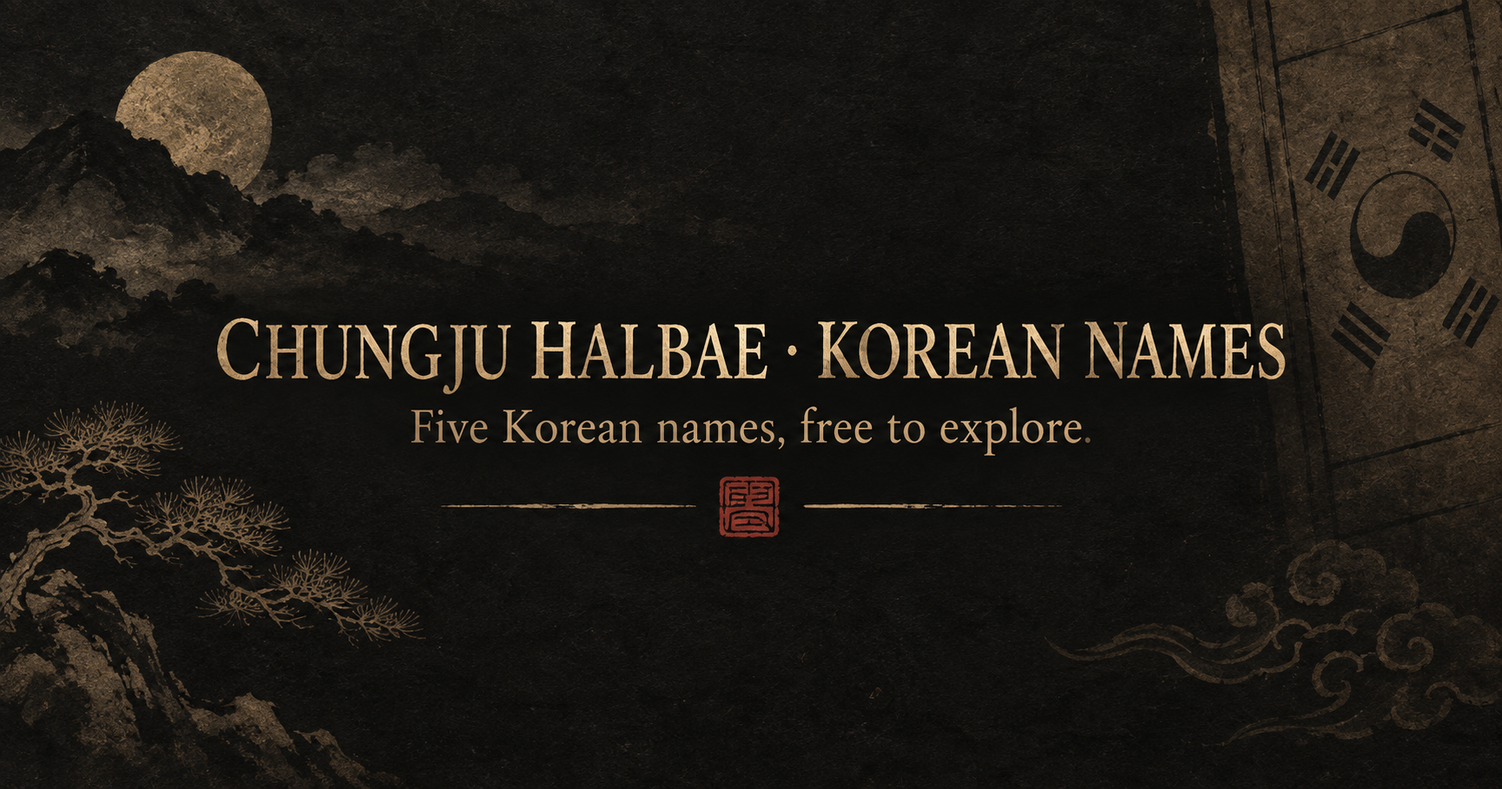
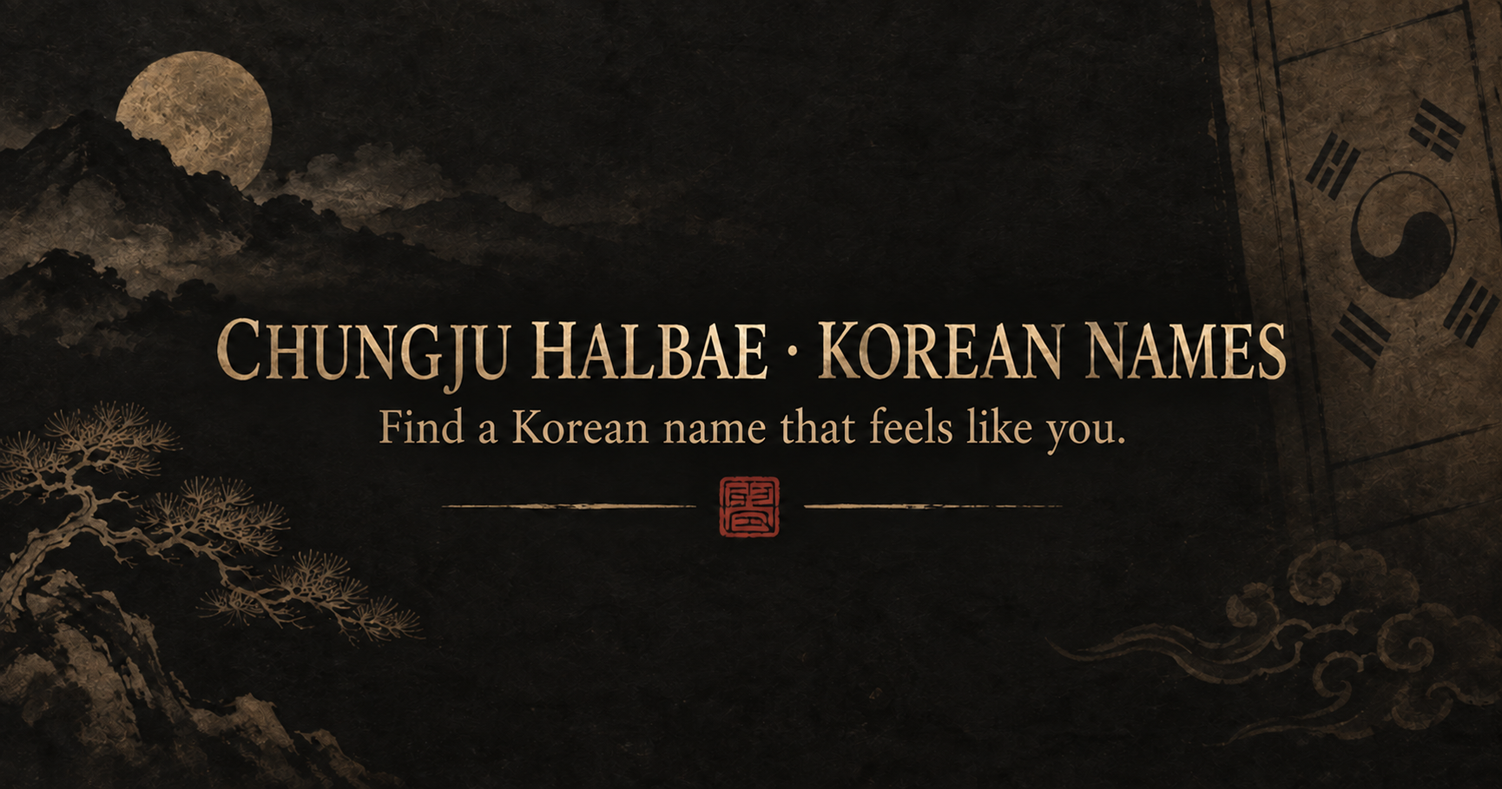
Hide example names until personalized results

diff --git a/app/page.tsx b/app/page.tsx
@@ -7,13 +7,6 @@ import { Input } from '@/components/ui/input';
 import { Textarea } from '@/components/ui/textarea';
 import type { NameFeel, NameResult, NameStyle } from '@/lib/names';
 
-const examples = [
-  ['지안', 'Jian', 'Warm, balanced'],
-  ['서윤', 'Seoyun', 'Gentle, refined'],
-  ['도윤', 'Doyun', 'Calm, assured'],
-  ['하준', 'Hajun', 'Clear, confident'],
-  ['은서', 'Eunseo', 'Warm, gentle'],
-];
 const styles: NameStyle[] = ['any', 'gentle', 'bright', 'distinctive', 'classic', 'modern'];
 const meaningSuggestions = ['Peace', 'Wisdom', 'Kindness', 'Hope', 'Nature', 'Light', 'Strength', 'Creativity'];
 const nameFeelOptions: { value: NameFeel; label: string }[] = [
@@ -84,13 +77,21 @@ export default function Home() {
       setFeedbackRating(0); setFeedbackComment(''); setFeedbackMessage('');
       try { localStorage.setItem(`chungju-halbae-delete:${next.id}`, body.deleteToken); } catch { /* deletion remains available in this tab */ }
       history.replaceState(null, '', '#result=' + next.id + '.' + body.token);
-      setTimeout(() => { document.getElementById('how-it-works')?.scrollIntoView({ behavior: 'smooth' }); document.getElementById('results-heading')?.focus({ preventScroll: true }); }, 80);
       return next;
     } catch (caught) {
       setError(caught instanceof SyntaxError ? 'Something went wrong. Please try again.' : caught instanceof Error ? caught.message : 'Please try again.');
       throw caught;
     } finally { setBusy(false); }
   }, []);
+
+  useEffect(() => {
+    if (!result) return;
+    const frame = requestAnimationFrame(() => {
+      document.getElementById('how-it-works')?.scrollIntoView({ behavior: 'smooth' });
+      document.getElementById('results-heading')?.focus({ preventScroll: true });
+    });
+    return () => cancelAnimationFrame(frame);
+  }, [result]);
 
   useEffect(() => {
     const match = location.hash.match(/^#result=([a-f0-9-]+)\.([a-f0-9-]+)(?:&selected=([^&]+))?$/);
@@ -121,8 +122,8 @@ export default function Home() {
     const lifecycle = new AbortController();
     void Promise.resolve(context.registerTool({
       name: 'generate_korean_names',
-      title: 'Find five Korean names',
-      description: 'Generate five free Korean given names from an approximate name-sound match, personal meaning, preferred mood and a limited birth-date reading for checked Hanja.',
+      title: 'Find Korean names',
+      description: 'Explore Korean given names using an approximate name-sound match, personal meaning, preferred mood and a limited birth-date reading for checked Hanja.',
       inputSchema: {
         type: 'object', properties: {
           name: { type: 'string', minLength: 1 },
@@ -206,7 +207,7 @@ export default function Home() {
         <div className="portrait-wrap"><img src="/halbae.jpg" alt="Portrait of Chungju Halbae in traditional clothing"/></div>
         <h1>Come closer.<br/><em>Let&apos;s find your Korean name.</em></h1>
         <p className="subtitle">“Tell me your name, date of birth, and the meaning you hope to carry. I&apos;ll look for a Korean name that feels like you.”</p>
-        <div className="promises"><span><Check size={15}/> Five names free</span><span><Check size={15}/> No sign-up</span><span><Check size={15}/> No credit card</span></div>
+        <div className="promises"><span><Check size={15}/> Free name reading</span><span><Check size={15}/> No sign-up</span><span><Check size={15}/> No credit card</span></div>
         <a className="hero-cta" href="#find-your-name">Begin your name reading <ArrowRight size={17}/></a>
       </div>
       <div className="form-frame" id="find-your-name">
@@ -248,14 +249,14 @@ export default function Home() {
           <div className="style-chips feel-chips" role="group" aria-label="Name impression">{nameFeelOptions.map(option => <Button key={option.value} type="button" variant="outline" className={nameFeel === option.value ? 'active' : ''} aria-pressed={nameFeel === option.value} onClick={() => setNameFeel(option.value)}>{option.label}</Button>)}</div>
           <p className="field-help">This describes a name&apos;s common impression, not your gender. Anyone may use a name they like.</p>
           {error && <p className="form-error" role="alert">{error}</p>}
-          <Button type="submit" className="submit-button" disabled={busy}>{busy ? 'Halbae is looking…' : 'Show me five names'} <ArrowRight size={18}/></Button>
+          <Button type="submit" className="submit-button" disabled={busy}>{busy ? 'Halbae is looking…' : 'Find my Korean name'} <ArrowRight size={18}/></Button>
         </form>
         <p className="privacy-line">Your name, pronunciation hint, meaning note, and chart summary are saved with a private result link for seven days. Your exact birth date and time are not saved. Anyone with the link can open it. <a href="/beta-privacy">Beta privacy details</a></p>
       </div>
     </section>
     <p className="preview-truth"><strong>How this reading works</strong> We compare the sound of your name and the style you want with more than 2,000 two-syllable Korean name options. For names with checked Hanja, your meaning and birth chart may also affect the order. This is a limited traditional reading.</p>
-    <section className="preview-section" id="how-it-works">
-      <div className="section-heading"><div><p className="eyebrow">{result ? '02 · YOUR FREE NAMES' : '02 · A FIRST LOOK'}</p><h2 id="results-heading" tabIndex={-1}>{result ? 'Names for ' + result.originalName : 'A glimpse of your names'}</h2><p>{result ? `${nameFeelSummary[result.nameFeel || 'any']}. Choose the one that feels most like you. Your private result link works for seven days.` : 'These are examples. Tell Halbae your name to see your own five.'}</p></div><span className="step-badge">FIVE FREE</span></div>
+    {result && <section className="preview-section" id="how-it-works">
+      <div className="section-heading"><div><p className="eyebrow">02 · YOUR NAME READING</p><h2 id="results-heading" tabIndex={-1}>{'Names for ' + result.originalName}</h2><p>{`${nameFeelSummary[result.nameFeel || 'any']}. Choose the one that feels most like you. Your private result link works for seven days.`}</p></div></div>
       {result?.saju && <div className="saju-reading">
         <p className="eyebrow">YOUR BIRTH-DATE READING</p>
         <h3>Day stem: <span lang="ko">{result.saju.day.stem}</span> · {result.saju.dayElementEnglish}</h3>
@@ -269,8 +270,7 @@ export default function Home() {
         {result.saju.boundaryUncertain && <p className="boundary-note">A seasonal boundary may occur on this date. Add your local birth time and birthplace time zone to resolve the year or month pillar.</p>}
         <p className="method-note">We use the birth-chart information we can calculate reliably. Names with checked Hanja may reflect it through a symbolic character image. We don&apos;t determine your most favorable element or predict your fortune.</p>
       </div>}
-      <div className="name-grid">{result
-        ? result.candidates.map((candidate, i) => <article className={'name-card' + (selected === candidate.hangul ? ' selected-card' : '')} key={candidate.hangul}>
+      <div className="name-grid">{result.candidates.map((candidate, i) => <article className={'name-card' + (selected === candidate.hangul ? ' selected-card' : '')} key={candidate.hangul}>
             <div className="card-meta"><span>NAME {String(i+1).padStart(2,'0')}</span>{i===0 && <span className="pick">START HERE</span>}</div>
             <div className="hangul" lang="ko">{candidate.hangul}</div><div className="roman"><small>Split spelling</small> {candidate.syllables} <small>Joined spelling</small> {candidate.romanization}</div>
             {candidate.presentation && <div className="presentation-label">{candidate.presentation[0].toUpperCase() + candidate.presentation.slice(1)} impression (approximate)</div>}
@@ -286,9 +286,8 @@ export default function Home() {
             {candidate.hanja && <div className="basic-meaning"><span>ONE POSSIBLE HANJA SPELLING</span><b lang="ko">{candidate.hanja.pair}</b><small>{candidate.hanja.characters.map(character => character.character + ' ' + character.gloss).join(' · ')}</small></div>}
             {!candidate.hanja && <div className="basic-meaning"><span>HANJA SPELLING</span><small>No characters have been checked for this name yet. Its Hangul spelling does not have one fixed character meaning.</small></div>}
             <Button type="button" variant={selected === candidate.hangul ? 'default' : 'outline'} className="choose-button" onClick={() => chooseName(candidate.hangul)}>{selected === candidate.hangul ? 'Your choice ✓' : 'Choose this name'}</Button>
-          </article>)
-        : examples.map(([hangul, roman, mood], i) => <article className="name-card" key={hangul}><div className="card-meta"><span>EXAMPLE {String(i+1).padStart(2,'0')}</span>{i===0 && <span className="pick">START HERE</span>}</div><div className="hangul" lang="ko">{hangul}</div><div className="roman">{roman}</div><div className="card-line"/><strong>{mood}</strong><p>An example of a two-syllable Korean given name.</p></article>)}</div>
-      <p className="disclaimer">{result ? 'Hanja are characters sometimes used to write Korean given names. We checked individual character readings against the Korean Supreme Court lookup, but not the full name’s registration eligibility or its element interpretation. English meanings are editorial translations. Audio uses your browser’s Korean voice.' : 'Example names shown. Generate yours to see the birth chart, five name options, and any checked Hanja spellings.'}</p>
+          </article>)}</div>
+      <p className="disclaimer">Hanja are characters sometimes used to write Korean given names. We checked individual character readings against the Korean Supreme Court lookup, but not the full name’s registration eligibility or its element interpretation. English meanings are editorial translations. Audio uses your browser’s Korean voice.</p>
       {result && <div className="surname-panel">
         <div><p className="eyebrow">OPTIONAL FULL-NAME PREVIEW</p><h3>What about a family name?</h3><p>Korean names usually put the family name first. Your own surname remains yours; a Korean-style surname here is only a nickname example.</p></div>
         <div className="surname-options" role="group" aria-label="Family name preview">
@@ -300,19 +299,19 @@ export default function Home() {
         {surnameMode === 'korean' && <div className="surname-detail"><p>Choose one to see how the full name looks:</p><div className="surname-picks">{koreanSurnames.map(surname => <Button type="button" key={surname.hangul} variant={koreanSurname.hangul === surname.hangul ? 'default' : 'outline'} onClick={() => setKoreanSurname(surname)}>{surname.hangul} <small>{surname.romanization}</small></Button>)}</div><strong className="full-name-preview" lang="ko">{koreanSurname.hangul}{selected}</strong><span className="full-name-roman">{koreanSurname.romanization} {result.candidates.find(candidate => candidate.hangul === selected)?.romanization}</span><p>This is a cultural nickname preview. It does not imply family ancestry or change your legal name.</p></div>}
       </div>}
       {result && <div className="feedback-panel" id="beta-feedback"><p className="eyebrow">HELP HALBAE IMPROVE</p><h3>Did these names feel right?</h3><p>We store feedback separately from your original name and birth chart. Please leave out personal details.</p><div className="rating-buttons" role="group" aria-label="Rate these names from one to five">{[1,2,3,4,5].map(value => <Button type="button" key={value} variant={feedbackRating === value ? 'default' : 'outline'} aria-pressed={feedbackRating === value} aria-label={`${value} out of 5`} onClick={() => setFeedbackRating(value)}>{value}</Button>)}</div><label htmlFor="feedback-comment">What worked or felt off? <small>Optional</small></label><Textarea id="feedback-comment" className="form-input meaning-input" maxLength={500} value={feedbackComment} onChange={event => setFeedbackComment(event.target.value)} placeholder="For example: a name felt too formal, or its meaning fit perfectly"/><Button type="button" className="feedback-submit" disabled={feedbackBusy} onClick={() => void sendFeedback()}>{feedbackBusy ? 'Sending…' : 'Send feedback'}</Button>{feedbackMessage && <p role="status" className="feedback-message">{feedbackMessage}</p>}</div>}
-      {notice && <p className="notice" role="status">{notice}</p>}
       {result && <div className="result-footer"><span>Bookmark or copy your private link to revisit these names within seven days. Anyone with the link can view them.</span><div className="result-actions"><Button type="button" variant="outline" onClick={() => void copyResultLink()}><Copy size={15}/> Copy result link</Button><Button type="button" variant="outline" onClick={() => { setResult(null); setSelected(''); setDeleteToken(''); history.replaceState(null, '', location.pathname); document.getElementById('find-your-name')?.scrollIntoView({ behavior: 'smooth' }); }}><RotateCcw size={15}/> Try another name</Button>{deleteToken && <Button type="button" variant="outline" className="delete-result" onClick={() => void deleteMyResult()}>Delete my result</Button>}</div></div>}
-    </section>
+    </section>}
+    {notice && <p className="notice result-notice" role="status">{notice}</p>}
     <section className="method-section" id="about">
-      <p className="eyebrow">03 · HOW HALBAE CHOOSES</p>
+      <p className="eyebrow">HOW HALBAE CHOOSES</p>
       <h2>What goes into a name?</h2>
       <div className="method-row"><span>一</span><p><strong>Your name and preferences.</strong> We compare your pronunciation hint, when provided, with Korean name spellings. Your chosen style and name impression guide the shortlist. Sound matching is approximate.</p></div>
       <div className="method-row"><span>二</span><p><strong>Your meaning or story.</strong> We look for themes in your English note. If a name has a checked Hanja character with a related meaning, we show that link. Notes we cannot connect do not change the order.</p></div>
       <div className="method-row"><span>三</span><p><strong>Your birth chart.</strong> Your date gives a partial traditional reading. If you know your birth time and birthplace time zone, we can calculate one more part. For checked Hanja names, a character image may symbolically connect to the chart and affect the order. We do not calculate a definitive best element.</p></div>
-      <div className="method-row"><span>四</span><p><strong>Korean name options.</strong> We screen more than 2,000 two-syllable forms and favor names that appear more often in our source data. The five results have different opening syllables. Only 51 forms currently have a checked possible Hanja spelling.</p></div>
+      <div className="method-row"><span>四</span><p><strong>Korean name options.</strong> We screen more than 2,000 two-syllable forms and favor names that appear more often in our source data. The suggestions have different opening syllables. Only 51 forms currently have a checked possible Hanja spelling.</p></div>
       <div className="saju-future"><strong>ABOUT THIS BETA</strong><p>Most options come from a synthetic Korean persona dataset, with a smaller set informed by published birth-name data. The full list and every interpretation have not been reviewed by a Korean naming expert. Character meanings and birth-chart links are limited, so please tell us when a name feels unnatural.</p><p><a href="https://huggingface.co/datasets/nvidia/Nemotron-Personas-Korea" target="_blank" rel="noopener noreferrer">NVIDIA Nemotron-Personas-Korea</a> · <a href="https://creativecommons.org/licenses/by/4.0/" target="_blank" rel="noopener noreferrer">CC BY 4.0</a> · <a href="https://stfamily.scourt.go.kr/st/StFrrStatcsView.do?pgmId=090000000025" target="_blank" rel="noopener noreferrer">Korean court birth-name table</a>.</p></div>
     </section>
-    <section className="premium-section"><div><p className="eyebrow">LATER, AFTER THE BETA</p><h2>A deeper name story.</h2><p>All five names are free. We are exploring an optional detailed report for names with checked Hanja. You can preview the format now; no payment is available during this beta.</p><a className="sample-link" href="/sample-report">Explore a sample report <ArrowRight size={16}/></a></div><div className="price-box"><small>OPEN BETA</small><strong>Free</strong><span>No payment or subscription</span></div></section>
+    {result && <section className="premium-section"><div><p className="eyebrow">LATER, AFTER THE BETA</p><h2>A deeper name story.</h2><p>Your name suggestions are free. We are exploring an optional detailed report for names with checked Hanja. You can preview the format now; no payment is available during this beta.</p><a className="sample-link" href="/sample-report">Explore a sample report <ArrowRight size={16}/></a></div><div className="price-box"><small>OPEN BETA</small><strong>Free</strong><span>No payment or subscription</span></div></section>}
     <footer><a href="https://gwimunsaju.com/" target="_blank" rel="noopener noreferrer" lang="ko">충주 할배 · 귀문사주</a><span>For cultural exploration. Name suggestions are not legal name changes or promises about the future.</span><div className="footer-links"><a href="/beta-privacy">Beta privacy</a><a href="mailto:shj2331@chansworld.co.kr?subject=Korean%20name%20beta">Contact</a></div><small>© 2026 Chungju Halbae Names</small></footer>
   </main>;
 }

diff --git a/app/sample-report/page.tsx b/app/sample-report/page.tsx
@@ -7,16 +7,16 @@ import { PrintButton } from './print-button';
 
 export const metadata: Metadata = {
   title: 'Sample Korean Name Report | Chungju Halbae Names',
-  description: 'Preview the planned Korean name report, with checked Hanja characters and a five-name comparison.',
+  description: 'Preview the planned Korean name report, with checked Hanja characters and a name comparison.',
   openGraph: {
     title: 'Sample Korean Name Report',
-    description: 'A sample five-name comparison and checked Hanja character explanation.',
+    description: 'A sample name comparison and checked Hanja character explanation.',
     images: [],
   },
   twitter: {
     card: 'summary',
     title: 'Sample Korean Name Report',
-    description: 'A sample five-name comparison and checked Hanja character explanation.',
+    description: 'A sample name comparison and checked Hanja character explanation.',
     images: [],
   },
 };
@@ -48,7 +48,7 @@ export default function SampleReport() {
       <div className="report-head"><p className="eyebrow">CHUNGJU HALBAE NAMES · SAMPLE</p><span>EXAMPLE ONLY</span></div>
       <div className="report-title-row"><div><p className="report-overline">A KOREAN NAME FOR</p><h1>Emma</h1><p>This fictional example previews a possible future report. Reports are not sold during the beta. The example birth date is 16 March 1995.</p></div><div className="report-name"><strong lang="ko">지안</strong><span>Jian · Ji-an</span></div></div>
       <div className="report-divider"/>
-      <section className="report-section"><span className="report-number">01</span><div><h2>Your five-name comparison</h2><p>All five Hangul names are free. A basic Hanja meaning appears only for checked spellings. A future report could bring sound, style, and selection reasons together so you can compare the names side by side.</p><div className="comparison-list">{alternatives.map(([hangul, roman, impression, reason], i) => <div className="comparison-item" key={hangul}><span>{String(i+1).padStart(2, '0')}</span><strong lang="ko">{hangul}</strong><b>{roman}</b><em>{impression}</em><small>{reason}</small></div>)}</div></div></section>
+      <section className="report-section"><span className="report-number">01</span><div><h2>Comparing your options</h2><p>Your Hangul name suggestions are free. A basic Hanja meaning appears only for checked spellings. A future report could bring sound, style, and selection reasons together so you can compare the names side by side.</p><div className="comparison-list">{alternatives.map(([hangul, roman, impression, reason], i) => <div className="comparison-item" key={hangul}><span>{String(i+1).padStart(2, '0')}</span><strong lang="ko">{hangul}</strong><b>{roman}</b><em>{impression}</em><small>{reason}</small></div>)}</div></div></section>
       <section className="report-section"><span className="report-number">02</span><div><h2>A closer look at 지안</h2><p>Jian is a two-syllable given name. Its two syllables are relatively easy to say, and several Hanja spellings may be possible. “Warm, balanced” describes our impression of the name, not a fixed dictionary meaning.</p><div className="hanja-block"><div><span>ONE CHECKED HANJA SPELLING</span><strong lang="ko">{example.hanja}</strong><small>Possible Hanja for 지안</small></div><p>Hanja are characters sometimes used to write Korean names. The spelling here is one possible choice; we checked each character and its Korean reading in the Supreme Court’s personal-name character lookup.</p></div><div className="character-grid">{characters.map(character => <div className="character-card" key={character.character}><strong lang="ko">{character.character}</strong><div><b>{character.reading.join(', ')}</b><p>{character.englishGloss}</p><a href={character.officialRecordUrl} target="_blank" rel="noopener noreferrer">Official character record <ExternalLink size={12}/></a></div></div>)}</div><p className="report-caveat">Individual character readings were checked. The full name’s legal registration eligibility has not been checked. English meanings are editorial translations of the official Korean character descriptions.</p></div></section>
       <section className="report-section"><span className="report-number">03</span><div><h2>The example birth-date chart</h2><p>For 16 March 1995, the calculated day pillar is <span lang="ko">{report.saju?.day.hanja}</span>, and the day-stem element is {report.saju?.dayElementEnglish}. The year and month pillars are <span lang="ko">{report.saju?.year?.hanja}</span> and <span lang="ko">{report.saju?.month?.hanja}</span>. With no birth time, the hour pillar is unknown.</p><p>The chart uses the traditional local-midnight day convention. In a live reading, available day, month, year and hour stems can affect the order only of names with checked Hanja imagery. This fictional report illustrates the format; it does not establish a missing element or prove that this name is the optimal match.</p></div></section>
       <section className="report-section"><span className="report-number">04</span><div><h2>Using your name</h2><p>Introduce yourself as “Jian” and write your given name as 지안. For someone named Emma, Jian offers a different rhythm while keeping a gentle impression. That is a naming choice, not a translation of Emma’s meaning.</p><p>This service suggests a given name only; it does not assign a Korean family name. For a cultural nickname, 김지안 (Kim Jian) shows the family-name-first order. Using 김 here does not imply Kim family ancestry or give you a legal surname. You can keep your own family name instead.</p><p>Your preferred Roman spelling may differ from the standard joined or hyphenated form. For passports, residence documents, and contracts, use your registered name.</p></div></section>

diff --git a/app/beta-privacy/page.tsx b/app/beta-privacy/page.tsx
@@ -13,7 +13,7 @@ export default function BetaPrivacy() {
       <h1>Your answers and privacy</h1>
       <p>This beta is free. You do not need an account or a credit card.</p>
       <h2>What we save</h2>
-      <p>To make a result link, we save your given name, pronunciation hint, meaning note, style choices, the calculated birth-chart summary, and the five suggested names. We do not save your exact birth date, birth time, or birthplace time zone. We use those details to calculate the summary when you submit the form.</p>
+      <p>To make a result link, we save your given name, pronunciation hint, meaning note, style choices, the calculated birth-chart summary, and the suggested names. We do not save your exact birth date, birth time, or birthplace time zone. We use those details to calculate the summary when you submit the form.</p>
       <h2>Your private link</h2>
       <p>Your result link works for seven days. Anyone with the full link can view your names and the information saved with them, so share it only with people you trust. The browser that created a new result keeps a separate deletion key on your device. From that browser, choose <strong>Delete my result</strong> to remove it immediately. People you share the link with cannot delete it. If you clear that browser&apos;s storage, email us with your result link to request deletion. The link stops working after seven days. Expired records may remain in our database until the next result is created.</p>
       <h2>Feedback</h2>

diff --git a/app/layout.tsx b/app/layout.tsx
@@ -14,7 +14,7 @@ const geistMono = Geist_Mono({
 
 export const metadata: Metadata = {
   title: 'Find Your Korean Name | Chungju Halbae',
-  description: 'Chungju Halbae offers five Korean names inspired by your name, sound and style. Free to explore.',
+  description: 'Find a Korean name inspired by your name, story, and date of birth. Free to explore.',
   icons: { icon: '/favicon.png' },
   metadataBase: new URL('https://chungju-halbae-korean-names.ysp106.chatgpt.site'),
   robots: { index: false, follow: false },
@@ -22,13 +22,13 @@ export const metadata: Metadata = {
     type: 'website',
     url: 'https://chungju-halbae-korean-names.ysp106.chatgpt.site',
     title: 'Chungju Halbae · Korean Names',
-    description: 'Five Korean names, free to explore.',
+    description: 'Find a Korean name that feels like you.',
     images: [{ url: '/og.png', width: 1730, height: 909, alt: 'Chungju Halbae Names' }],
   },
   twitter: {
     card: 'summary_large_image',
     title: 'Chungju Halbae · Korean Names',
-    description: 'Five Korean names, free to explore.',
+    description: 'Find a Korean name that feels like you.',
     images: ['/og.png'],
   },
 };

diff --git a/app/globals.css b/app/globals.css
@@ -203,6 +203,7 @@ body{background:#000;color:#f1efec}
 .names-site .result-actions{display:flex;flex-wrap:wrap;gap:8px;margin-top:13px}
 .names-site .result-actions button{min-height:37px;height:auto;white-space:normal}
 .names-site .result-actions .delete-result{border-color:#6d4140;color:#d79b93}
+.names-site .result-notice{max-width:432px;margin:14px auto;padding:0 16px;font-size:12px}
 .names-site .footer-links{display:flex;gap:18px;justify-content:center}
 .names-site footer .footer-links a{font:400 11px 'Noto Sans KR',Arial,sans-serif;color:#d4b875;text-decoration:underline;text-underline-offset:3px}
 .beta-info-page .beta-info-card{padding:36px 24px 50px;color:#c9c1b2}
